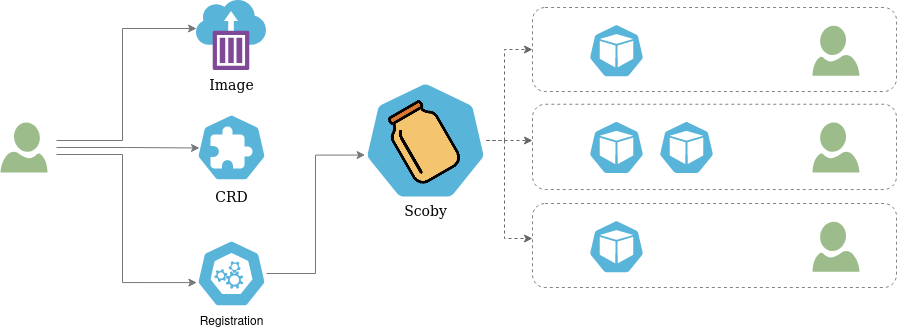
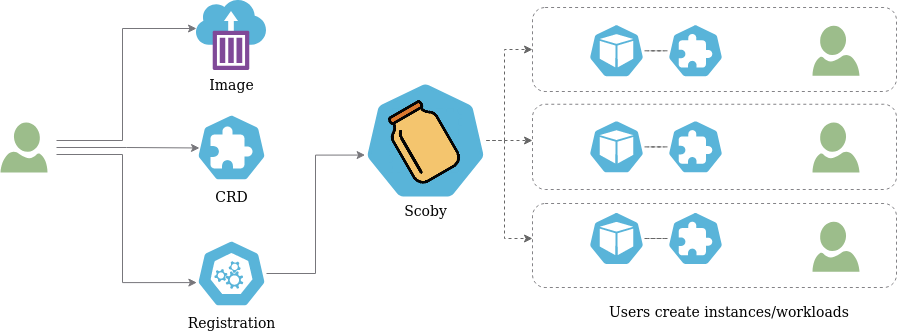
start primer

diff --git a/README.md b/README.md
@@ -15,33 +15,11 @@ Generic Kubernetes controller for simple workloads.
 
 Scoby is a controller that creates controllers dynamically :infinity:, and makes it easy to manage your application instances as Kubernetes objects.
 
-In shoft, Scoby is the shortest path between your application's container image and Kubernetes end users.
+In a nutshell, Scoby is the shortest path between your application's container image and Kubernetes end users.
 
 ![scoby user overview](docs/assets/images/scoby-user-overview.png)
 
 Given a container image containinng an application, a Kubernetes CRD that defines the application spec, and an Scoby registration that configures rendering, end users will be able to manage instances of your application at Kubernetes.
-
-## Primer
-
-There are 3 steps needed to create your Kubernetes native application:
-
-- Build the image: create a container image that Scoby can use. Parameters need to be passed via environment variables.
-- Create the CRD: Scoby will use the CRD elements to create the environment variables that your application needs. Make sure your add all your validations via CRD.
-- Create the CRDRegistration: the registration informs Scoby about how the CRD elements are transformed into environment variables, what image to use, and what type of workload should be created.
-
-A registration could look as simple as this:
-
-```yaml
-apiVersion: scoby.triggermesh.io/v1alpha1
-kind: CRDRegistration
-metadata:
-  name: myapp
-spec:
-  crd: myapp.myorganization.io
-  workload:
-    fromImage:
-      repo: myorganization/myapp:v1
-```
 
 ## Install
 
@@ -64,6 +42,91 @@ Development version can be installed using [ko](https://github.com/ko-build/ko)
 ```console
 ko apply -f ./config
 ```
+
+## Primer
+
+In this primer we are setting up the minimal registration to start using Scoby and allow Kubernetes users to create instances of your example application.
+
+There are 4 requirements to configure an application at Scoby:
+
+- Container image.
+- Custom Resource Definition file (CRD).
+- ClusterRoles on the CRD to allow Scoby to manage it.
+- CRD Registration for Scoby.
+
+### Kuard Image
+
+We need a container image that Scoby can use, and that will receive parameters via environment variables.
+
+In this primer (and at some other samples) we are using the [Kuard application]((https://github.com/kubernetes-up-and-running/kuard)) image which was created by the authors of Kubernetes Up and Ready book, and runs a web server that enables us to inspect the environment variables configured.
+
+The image is available at `gcr.io/kuar-demo/kuard-amd64:blue`
+
+### Kuard CRD
+
+Kubernetes can serve third party objects using [CRDs](https://kubernetes.io/docs/tasks/extend-kubernetes/custom-resources/custom-resource-definitions/).
+
+Scoby users need to create a CRD schema containing the fields that Kubernetes end users will provide to create new instances of the chosen container image.
+
+By default each CRD schema field will generate an environment variable at the container, but rendering can be highly customized.
+
+```yaml
+apiVersion: apiextensions.k8s.io/v1
+kind: CustomResourceDefinition
+metadata:
+  name: kuards.extensions.triggermesh.io
+spec:
+  group: extensions.triggermesh.io
+  scope: Namespaced
+  names:
+    plural: kuards
+    singular: kuard
+    kind: Kuard
+  versions:
+    - name: v1
+      served: true
+      storage: true
+      schema:
+        openAPIV3Schema:
+          type: object
+          properties:
+            spec:
+              type: object
+              properties:
+                # Primer Scoby sample variable
+                primer:
+                  type: string
+```
+
+The CRD above defines a `kuard` resource with an schema that lets users define a value for `spec.primer` as a string. It lacks validations, complex structures and status but is still good to get to know Scoby.
+
+```console
+kubectl apply -f https://raw.githubusercontent.com/triggermesh/scoby/main/docs/samples/00.primer/01.kuard-crd.yaml
+```
+
+### Kuard ClusterRoles
+
+### CRD Registration
+
+- Create the CRDRegistration: the registration informs Scoby about how the CRD elements are transformed into environment variables, what image to use, and what type of workload should be created.
+
+A registration could look as simple as this:
+
+```yaml
+apiVersion: scoby.triggermesh.io/v1alpha1
+kind: CRDRegistration
+metadata:
+  name: myapp
+spec:
+  crd: myapp.myorganization.io
+  workload:
+    fromImage:
+      repo: myorganization/myapp:v1
+```
+
+Once the registration is created Scoby will spin up a controller that reconciles `myapp` resource instances created by end users and creates a workload for them. Scoby takes care of rendering the workload according to the registration data, and maintain the status according to the registered CRD.
+
+![scoby end user overview](docs/assets/images/scoby-end-user-overview.png)
 
 ## Usage
 
